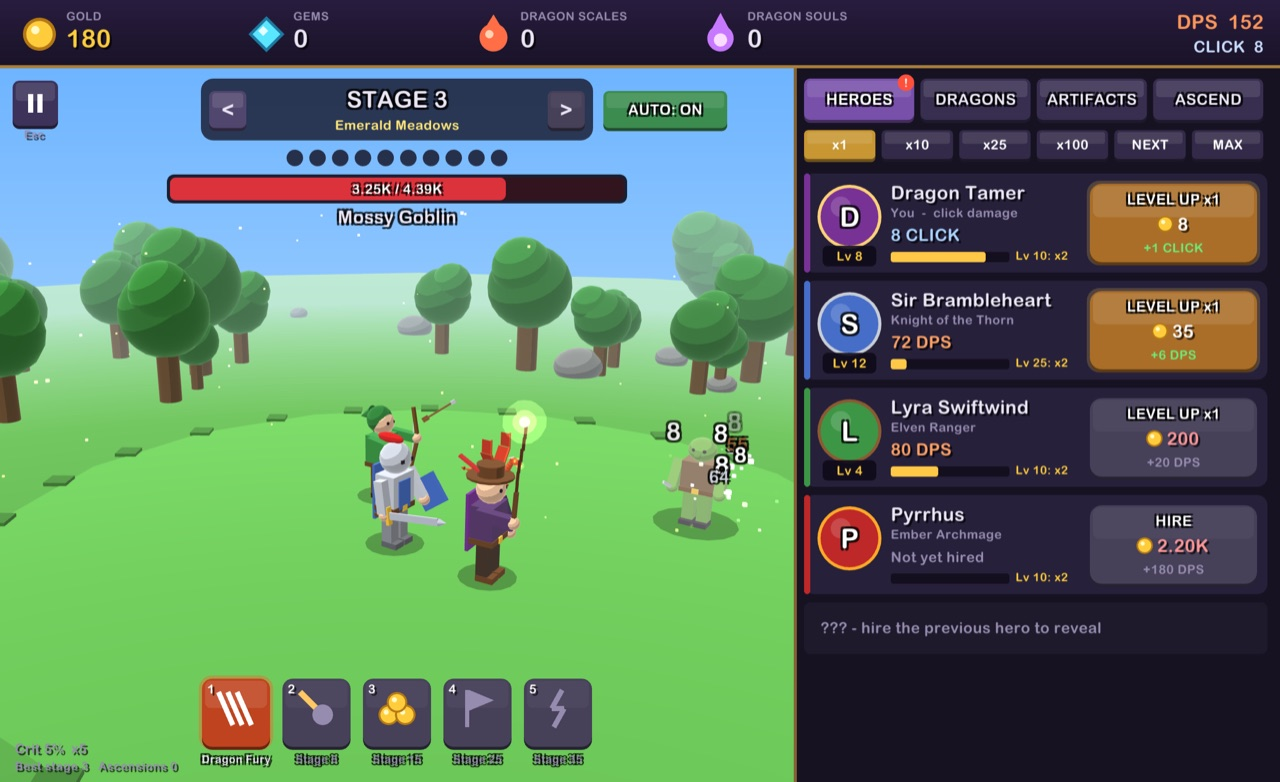
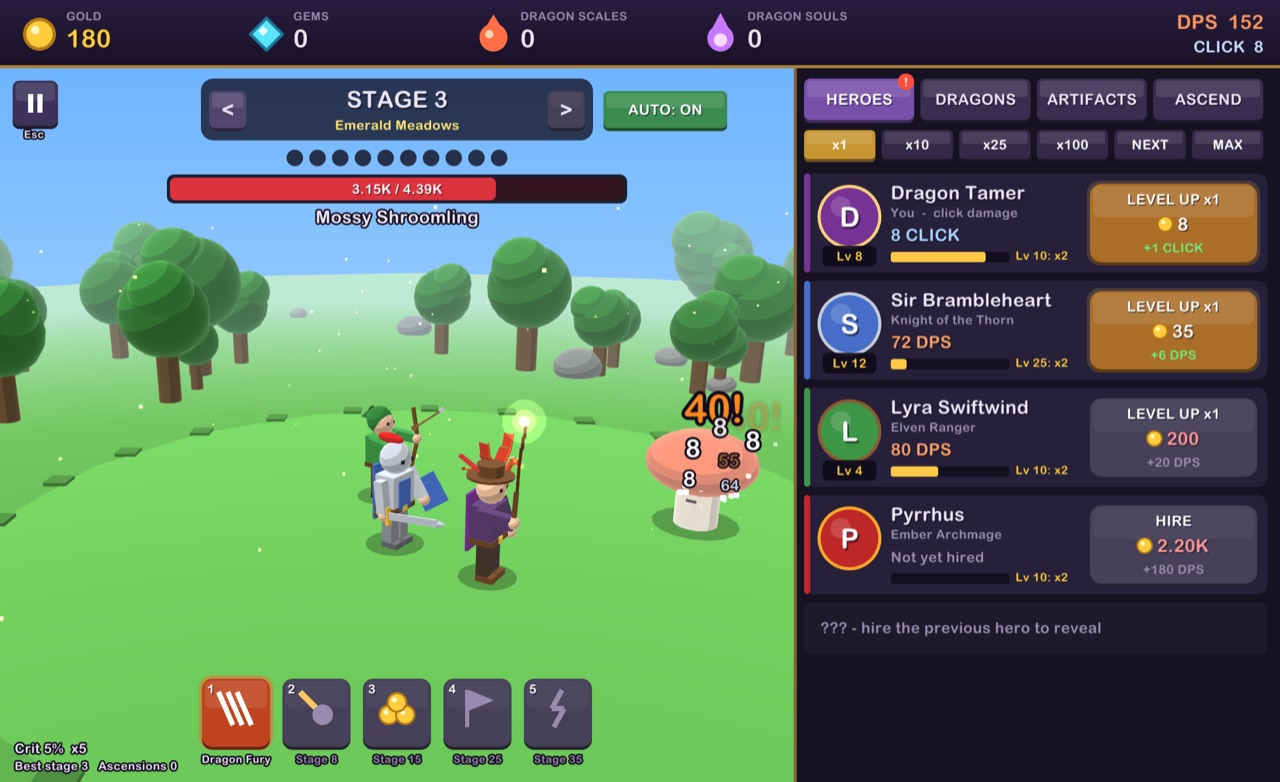
fix(ui): clean up blotchy text outlines
Outlines were four semi-transparent diagonal copies that stacked into
dark patches. UI text on solid panels now gets a soft drop shadow, and
text over the 3D scene gets an even ring of opaque copies scaled to the
font size. Refreshes the README screenshots.

diff --git a/Ui.cs b/Ui.cs
@@ -75,25 +75,52 @@ public static class Ui
 
     public static float Measure(string s, float size) => Raylib.MeasureTextEx(Font, s, size, Spacing(size)).X;
 
+    static readonly Color Ink = new(18, 10, 28, 255);
+
+    /// <summary>A single soft drop shadow, for text sitting on solid UI panels and buttons.</summary>
+    static void DropShadow(string s, Vector2 pos, float size, Color c)
+    {
+        float o = Math.Max(1f, size / 18f);
+        Raylib.DrawTextEx(Font, s, pos + new Vector2(o, o * 1.2f), size, Spacing(size), new Color(Ink.R, Ink.G, Ink.B, (byte)(c.A * 0.55f)));
+    }
+
     public static void Text(string s, float x, float y, float size, Color c, bool shadow = false)
     {
-        if (shadow) Raylib.DrawTextEx(Font, s, new Vector2(x + 2, y + 2), size, Spacing(size), new Color((byte)0, (byte)0, (byte)0, (byte)(c.A * 0.7f)));
+        if (shadow) DropShadow(s, new Vector2(x, y), size, c);
         Raylib.DrawTextEx(Font, s, new Vector2(x, y), size, Spacing(size), c);
     }
 
     public static void TextCentered(string s, Vector2 center, float size, Color c, bool shadow)
     {
+        var pos = center - Raylib.MeasureTextEx(Font, s, size, Spacing(size)) / 2;
+        if (shadow) DropShadow(s, pos, size, c);
+        Raylib.DrawTextEx(Font, s, pos, size, Spacing(size), c);
+    }
+
+    /// <summary>Left-aligned outlined text; see <see cref="TextOutlined"/>.</summary>
+    public static void TextOutlinedAt(string s, float x, float y, float size, Color c)
+    {
         var m = Raylib.MeasureTextEx(Font, s, size, Spacing(size));
-        if (shadow)
+        TextOutlined(s, new Vector2(x, y) + m / 2, size, c);
+    }
+
+    /// <summary>
+    /// Text with an even outline, for text drawn over the busy 3D scene. The outline is a ring of
+    /// 12 opaque copies, so overlaps don't stack into darker blotches; fading text fades the ring
+    /// faster than the fill so it stays clean.
+    /// </summary>
+    public static void TextOutlined(string s, Vector2 center, float size, Color c)
+    {
+        var pos = center - Raylib.MeasureTextEx(Font, s, size, Spacing(size)) / 2;
+        float r = Math.Max(1.5f, size * 0.075f);
+        float fade = c.A / 255f;
+        var ink = new Color(Ink.R, Ink.G, Ink.B, (byte)(255 * fade * fade * fade));
+        for (int k = 0; k < 12; k++)
         {
-            var sh = new Color((byte)0, (byte)0, (byte)0, (byte)(c.A * 0.8f));
-            for (int k = 0; k < 4; k++)
-            {
-                var o = new Vector2(k % 2 == 0 ? -2 : 2, k < 2 ? -2 : 2);
-                Raylib.DrawTextEx(Font, s, center - m / 2 + o, size, Spacing(size), sh);
-            }
+            float a = k * MathF.PI / 6;
+            Raylib.DrawTextEx(Font, s, pos + new Vector2(MathF.Cos(a), MathF.Sin(a)) * r, size, Spacing(size), ink);
         }
-        Raylib.DrawTextEx(Font, s, center - m / 2, size, Spacing(size), c);
+        Raylib.DrawTextEx(Font, s, pos, size, Spacing(size), c);
     }
 
     static void TextRight(string s, float right, float y, float size, Color c) => Text(s, right - Measure(s, size), y, size, c);
@@ -250,7 +277,7 @@ public static class Ui
                 if (done) Raylib.DrawCircleV(pc, 6, GoldC);
             }
         }
-        else TextCentered("Stage cleared - farming", new Vector2(cx, py + 7), 14, Dim, true);
+        else TextOutlined("Stage cleared - farming", new Vector2(cx, py + 7), 14, Txt);
 
         // Auto-advance / fight boss
         var ab = new Rectangle(hdr.X + hdr.Width + 10, hdr.Y + 12, 120, 36);
@@ -276,21 +303,21 @@ public static class Ui
         Bar(hb, shownHpFrac, new Color(255, 240, 200, 255), new Color(50, 20, 30, 255));
         Bar(hb, hpFrac, e.IsDragon ? new Color(230, 70, 200, 255) : e.IsBoss ? new Color(230, 80, 50, 255) : new Color(220, 50, 60, 255), new Color(0, 0, 0, 0));
         TextCentered($"{BigNum.Max(BigNum.Zero, e.Hp).Ceil()} / {e.MaxHp}", new Vector2(cx, hb.Y + 11), 15, Color.White, true);
-        TextCentered(e.Name, new Vector2(cx, hb.Y + hb.Height + 16), 20, e.IsBoss ? new Color(255, 190, 90, 255) : Txt, true);
+        TextOutlined(e.Name, new Vector2(cx, hb.Y + hb.Height + 16), 20, e.IsBoss ? new Color(255, 190, 90, 255) : Txt);
 
         // Onboarding hint
         if (g.Clicks < 25)
         {
             float a = 0.6f + 0.4f * MathF.Sin(t * 5);
-            TextCentered("CLICK THE BATTLEFIELD TO ATTACK!", new Vector2(cx, b.Y + b.Height - 150), 26, new Color((byte)255, (byte)230, (byte)120, (byte)(255 * a)), true);
+            TextOutlined("CLICK THE BATTLEFIELD TO ATTACK!", new Vector2(cx, b.Y + b.Height - 150), 26, new Color((byte)255, (byte)230, (byte)120, (byte)(255 * a)));
         }
 
         DrawAbilities(g, t);
 
         // Active buffs readout
         float bx = b.X + 14, by = b.Y + b.Height - 40;
-        Text($"Crit {g.CritChance() * 100:0}%  x{g.CritMult():0.#}", bx, by, 15, Dim, true);
-        Text($"Best stage {g.BestStage}   Ascensions {g.Ascensions}", bx, by + 18, 13, Dim, true);
+        TextOutlinedAt($"Crit {g.CritChance() * 100:0}%  x{g.CritMult():0.#}", bx, by, 15, Txt);
+        TextOutlinedAt($"Best stage {g.BestStage}   Ascensions {g.Ascensions}", bx, by + 18, 13, Txt);
     }
 
     static void DrawAbilities(Game g, float t)
@@ -331,7 +358,7 @@ public static class Ui
                 Bar(new Rectangle(r.X + 4, r.Y + size - 10, size - 8, 6), g.AbilityActive[i] / a.Duration, Color.White, new Color(0, 0, 0, 120));
             }
             Text($"{i + 1}", r.X + 5, r.Y + 3, 14, Color.White, true);
-            TextCentered(unlocked ? a.Name : $"Stage {a.UnlockStage}", new Vector2(r.X + size / 2, r.Y + size + 12), 12, unlocked ? Txt : Dim, true);
+            TextOutlined(unlocked ? a.Name : $"Stage {a.UnlockStage}", new Vector2(r.X + size / 2, r.Y + size + 12), 12, unlocked ? Txt : Dim);
             if (Hover(r))
             {
                 string tip = $"{a.Name}: {a.Desc}  ({a.Duration:0}s, cooldown {a.Cooldown * g.CooldownMult():0}s)";
@@ -715,7 +742,7 @@ public static class Ui
         bool clicked = Button(r, new Color(60, 50, 90, 255), true);
         Raylib.DrawRectangle((int)r.X + 15, (int)r.Y + 13, 5, 18, Color.White);
         Raylib.DrawRectangle((int)r.X + 24, (int)r.Y + 13, 5, 18, Color.White);
-        Text("Esc", r.X + 11, r.Y + r.Height + 2, 12, Dim, true);
+        TextOutlinedAt("Esc", r.X + 11, r.Y + r.Height + 2, 12, Txt);
         return clicked;
     }
 

diff --git a/Program.cs b/Program.cs
@@ -194,7 +194,7 @@ while (!Raylib.WindowShouldClose() && !quit)
             case Ui.PauseAction.NewGame: if (slot != game.Slot) AutoSaveNow(); StartGame(slot, false); paused = false; break;
         }
     }
-    if (sfx.Muted && tour == null) Ui.Text("MUTED (M)", battle.X + battle.Width - 110, battle.Y + battle.Height - 26, 15, Color.White, true);
+    if (sfx.Muted && tour == null) Ui.TextOutlinedAt("MUTED (M)", battle.X + battle.Width - 110, battle.Y + battle.Height - 26, 15, Color.White);
     if (tour is { WantsCapture: true } && tour.Capture(game) is { } nextGame) game = nextGame;
     Raylib.EndDrawing();
     if (tour is { Done: true }) break;

diff --git a/Fx.cs b/Fx.cs
@@ -331,7 +331,7 @@ public class Fx
             float size = t.Size * pop;
             var pos = new Vector2(sp.X + t.Dx * age * 2, sp.Y - age * 70);
             byte al = (byte)(255 * Math.Min(1, k * 2.5f));
-            Ui.TextCentered(t.Text, pos, size, new Color(t.Col.R, t.Col.G, t.Col.B, al), true);
+            Ui.TextOutlined(t.Text, pos, size, new Color(t.Col.R, t.Col.G, t.Col.B, al));
         }
     }
 
